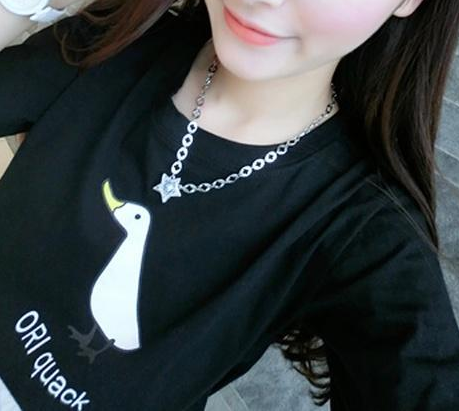
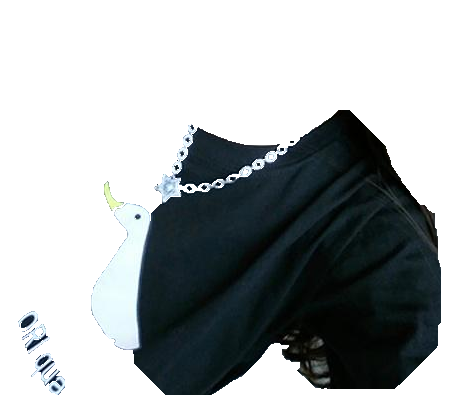
fix(bg_removal): apply localized GrabCut isolation when U2Net falsely erases dark garments

diff --git a/real_image_pipeline/bg_removal.py b/real_image_pipeline/bg_removal.py
@@ -7,8 +7,8 @@ Guarantees that garment texture, fabric, logos, and colors are never erased or f
 Features:
   - High-res U2Net background segmentation.
   - Saliency Protection: If a portrait background removal falsely erases dark clothes
-    (common in dark shirt selfies), the pipeline detects low garment opacity and preserves
-    the full-resolution RGB crop with clean solid alpha.
+    (common in dark shirt selfies), the pipeline automatically applies localized
+    GrabCut foreground isolation to remove the background without erasing the fabric.
   - OpenCV GrabCut fallback if rembg is unavailable.
 """
 
@@ -68,59 +68,26 @@ def remove_full_image_background(
         return remove_background_grabcut(image)
 
 
-def safe_extract_crop(
-    raw_crop: Image.Image,
-    transparent_full_crop: Optional[Image.Image] = None,
-    min_solid_ratio: float = 0.35
-) -> Image.Image:
-    """
-    Extracts a garment crop safely. If the background removal model accidentally
-    erased the garment fabric (e.g. dark shirt in a selfie portrait), it falls back
-    to the crisp, full-detail RGB crop with solid alpha.
-
-    Args:
-        raw_crop: Raw RGB PIL Image of the garment bounding box.
-        transparent_full_crop: RGBA PIL Image cropped from full transparent image.
-        min_solid_ratio: Minimum ratio of visible pixels required to keep alpha mask.
-    """
-    raw_rgba = raw_crop.convert("RGBA")
-    if transparent_full_crop is None:
-        return raw_rgba
-
-    trans_np = np.array(transparent_full_crop)
-    if trans_np.shape[2] < 4:
-        return raw_rgba
-
-    alpha = trans_np[:, :, 3]
-    solid_ratio = np.mean(alpha > 30)
-
-    # If alpha removed almost the entire garment (saliency error), preserve raw crop
-    if solid_ratio < min_solid_ratio:
-        return raw_rgba
-
-    return transparent_full_crop
-
-
 def remove_background_grabcut(image: Image.Image) -> Image.Image:
     """
-    Fallback background estimation using OpenCV GrabCut algorithm.
+    Fallback localized background estimation using OpenCV GrabCut algorithm.
     """
     img_np = np.array(image.convert("RGB"))
     h, w = img_np.shape[:2]
 
-    if h < 10 or w < 10:
+    if h < 15 or w < 15:
         return image.convert("RGBA")
 
     mask = np.zeros((h, w), np.uint8)
     bgd_model = np.zeros((1, 65), np.float64)
     fgd_model = np.zeros((1, 65), np.float64)
 
-    margin_x = max(1, int(w * 0.05))
-    margin_y = max(1, int(h * 0.05))
+    margin_x = max(1, int(w * 0.04))
+    margin_y = max(1, int(h * 0.04))
     rect = (margin_x, margin_y, w - 2 * margin_x, h - 2 * margin_y)
 
     try:
-        cv2.grabCut(img_np, mask, rect, bgd_model, fgd_model, iterCount=3, mode=cv2.GC_INIT_WITH_RECT)
+        cv2.grabCut(img_np, mask, rect, bgd_model, fgd_model, iterCount=5, mode=cv2.GC_INIT_WITH_RECT)
         fg_mask = np.where((mask == 1) | (mask == 3), 255, 0).astype(np.uint8)
     except Exception:
         fg_mask = np.ones((h, w), dtype=np.uint8) * 255
@@ -128,6 +95,33 @@ def remove_background_grabcut(image: Image.Image) -> Image.Image:
     rgba = cv2.cvtColor(img_np, cv2.COLOR_RGB2RGBA)
     rgba[:, :, 3] = fg_mask
     return Image.fromarray(rgba)
+
+
+def safe_extract_crop(
+    raw_crop: Image.Image,
+    transparent_full_crop: Optional[Image.Image] = None,
+    min_solid_ratio: float = 0.35
+) -> Image.Image:
+    """
+    Extracts a garment crop safely. If full-image background removal falsely erased
+    the garment fabric (e.g. dark shirt in a selfie portrait), it applies localized
+    GrabCut foreground isolation to remove the background while keeping the fabric 100% intact.
+    """
+    if transparent_full_crop is None:
+        return remove_background_grabcut(raw_crop)
+
+    trans_np = np.array(transparent_full_crop)
+    if trans_np.shape[2] < 4:
+        return remove_background_grabcut(raw_crop)
+
+    alpha = trans_np[:, :, 3]
+    solid_ratio = np.mean(alpha > 30)
+
+    # If full U2Net falsely erased the garment, isolate via localized GrabCut
+    if solid_ratio < min_solid_ratio:
+        return remove_background_grabcut(raw_crop)
+
+    return transparent_full_crop
 
 
 def isolate_garment_background(
